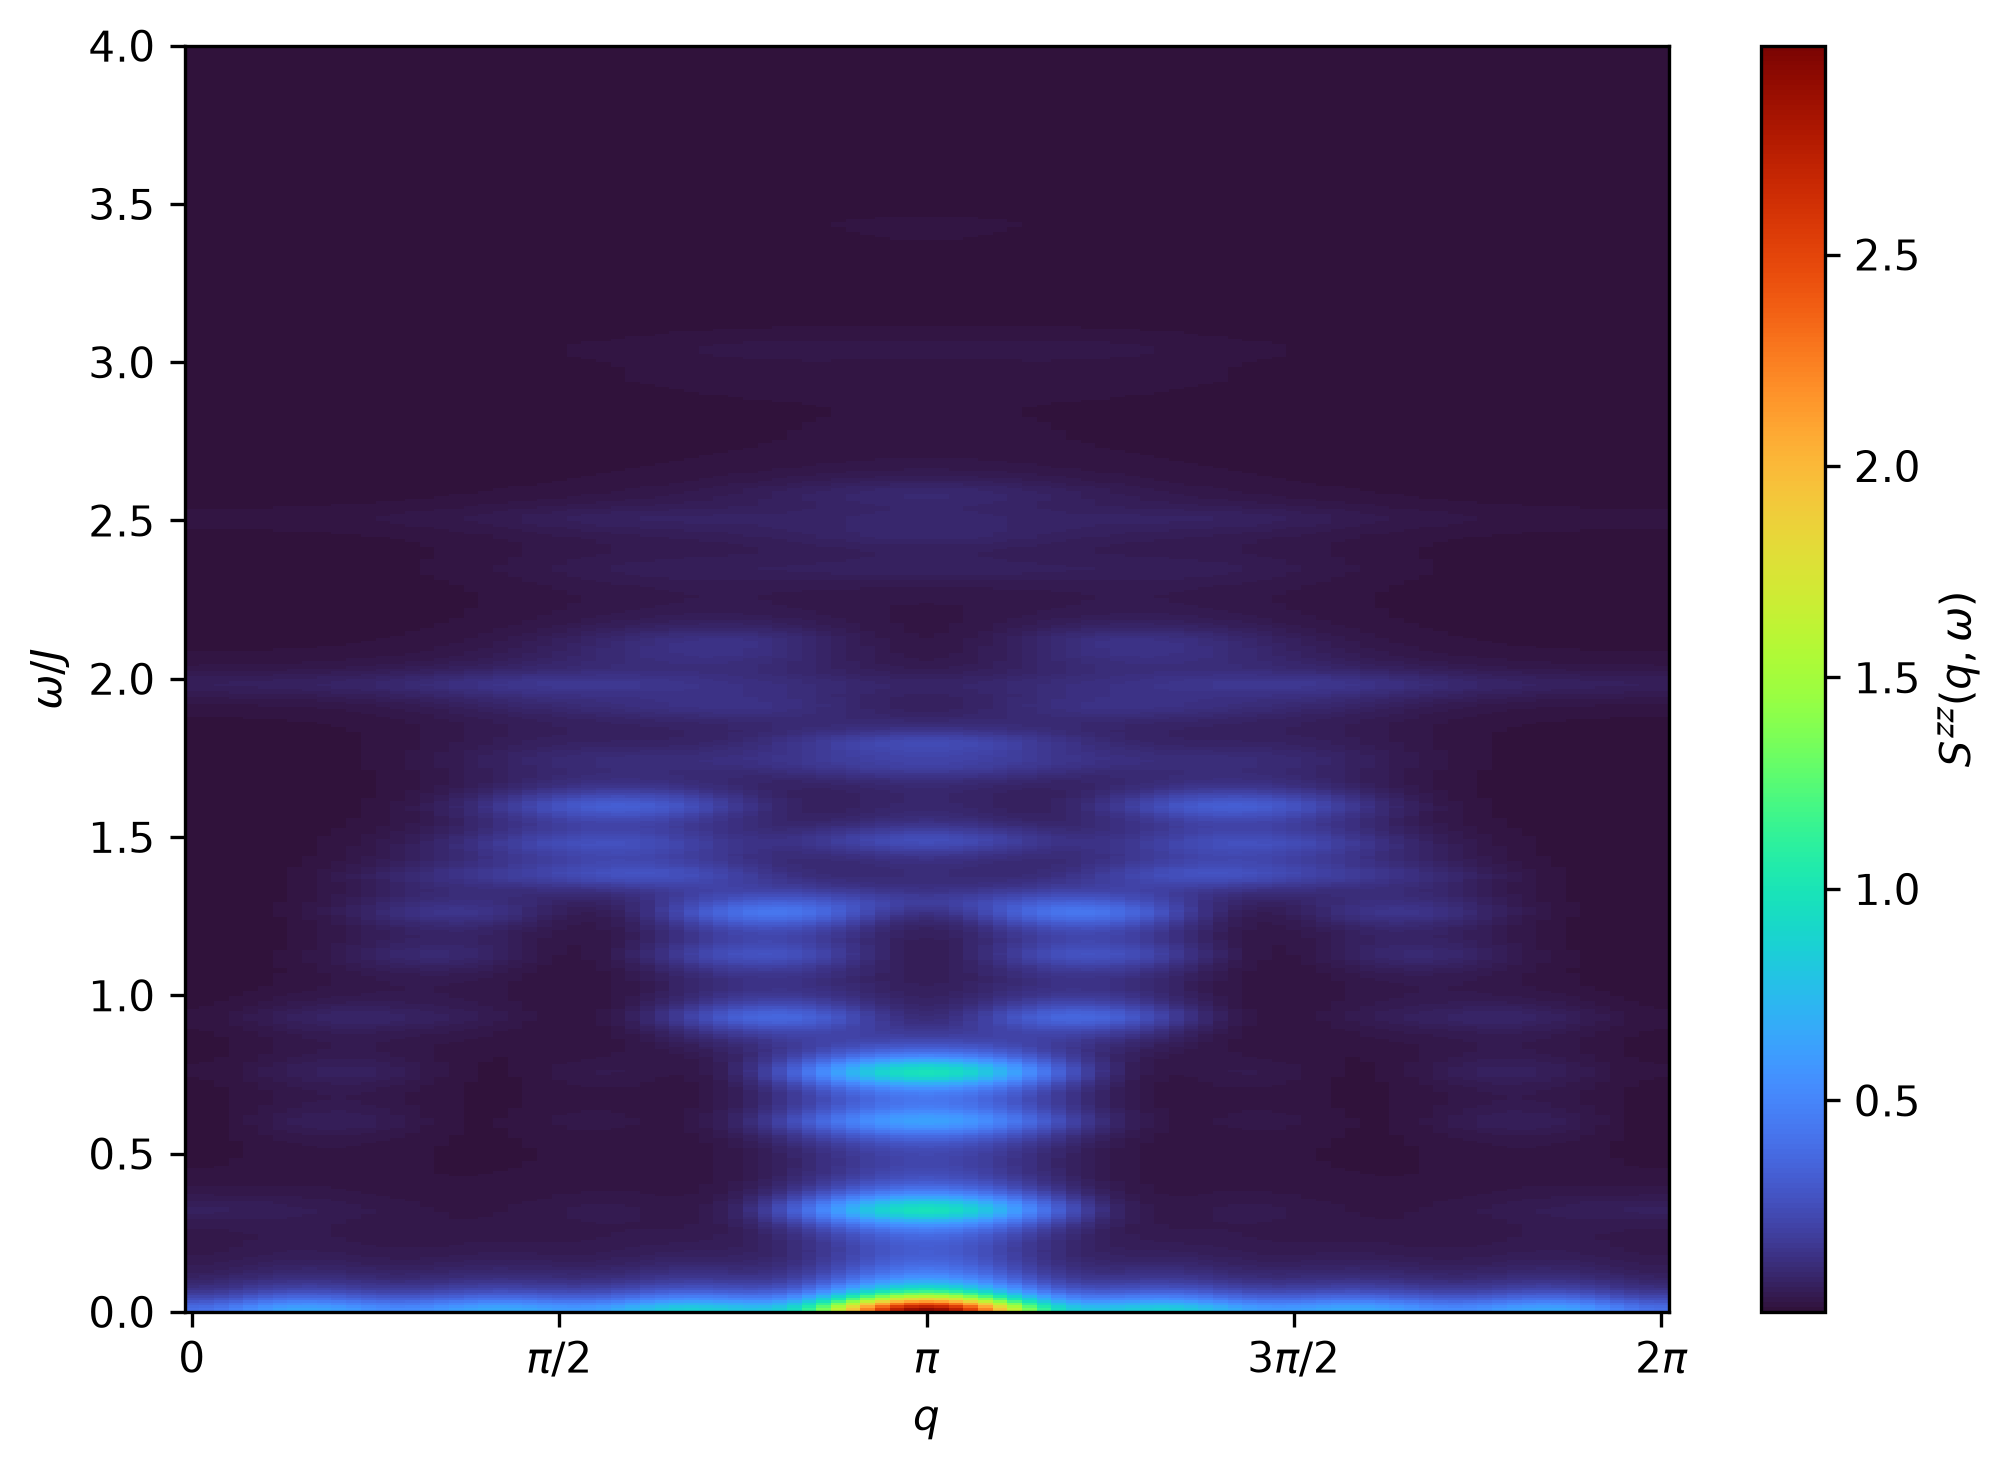
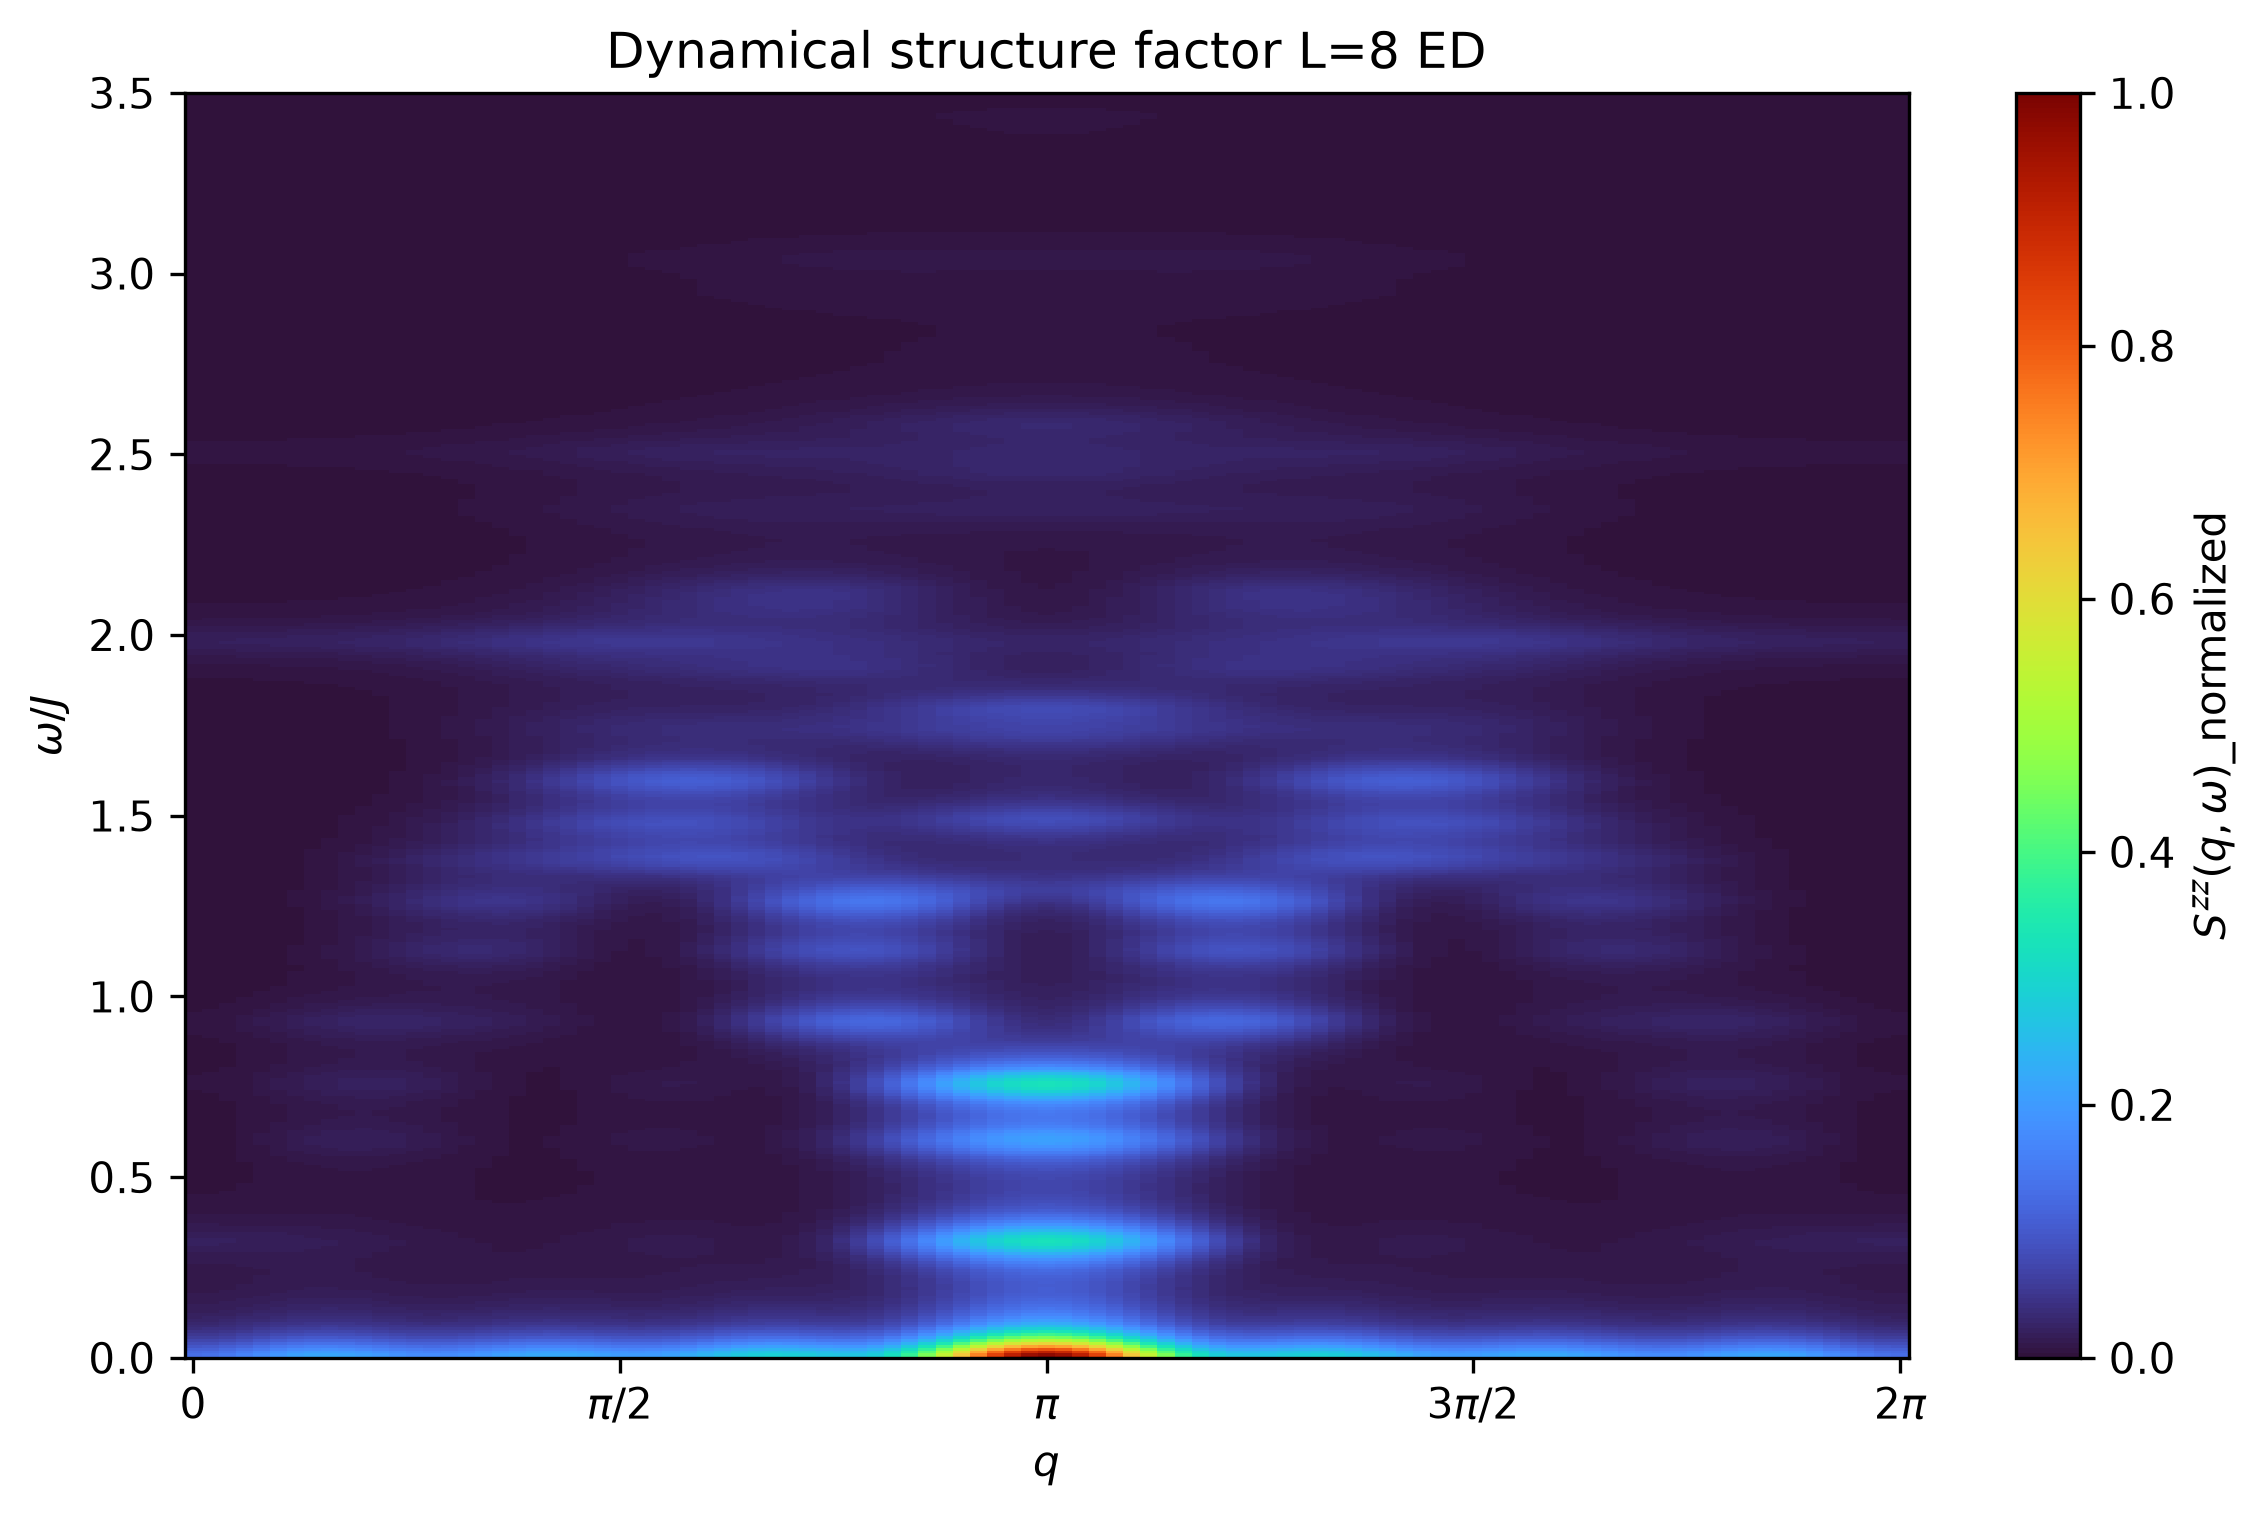
fix graph

Changed region(s): [[0.0308, 0.0, 0.9866, 0.9483], [0.0, 0.4283, 0.0308, 0.4895]]

diff --git a/sqw_ed.py b/sqw_ed.py
@@ -88,19 +88,22 @@ plt.xticks(
     [0, np.pi/2, np.pi, 3*np.pi/2, 2*np.pi],
     [r"$0$", r"$\pi/2$", r"$\pi$", r"$3\pi/2$", r"$2\pi$"]
 )
-plt.savefig("sq_ed.png", dpi=300, bbox_inches="tight")
+plt.tight_layout()
+plt.savefig("sq_ed_L8.png", dpi=300, bbox_inches="tight")
 plt.show()
 
-plt.figure(figsize=(7, 5))
-plt.pcolormesh(q_values, omega,S_qw.T, cmap="turbo",shading="auto")
+plt.figure(figsize=(8, 5))
+plt.pcolormesh(q_values, omega, S_qw.T/np.max(S_qw), cmap="turbo",shading="auto")
 plt.xlabel(r"$q$")
 plt.ylabel(r"$\omega/J$")
-plt.colorbar(label=r"$S^{zz}(q,\omega)$")
+cbar = plt.colorbar(label=r"$S^{zz}(q,\omega)$_normalized")
+cbar.set_ticks([0.0, 0.2, 0.4, 0.6, 0.8, 1.0])
 plt.xticks(
     [0, np.pi/2, np.pi, 3*np.pi/2, 2*np.pi],
     [r"$0$", r"$\pi/2$", r"$\pi$", r"$3\pi/2$", r"$2\pi$"]
 )
+plt.ylim(0, 3.5)
 plt.tight_layout()
-plt.ylim(0, 4)
+plt.title("Dynamical structure factor L=8 ED")
 plt.savefig("sqw_ed_L8.png", dpi=300, bbox_inches="tight")
 plt.show()

diff --git a/sqw_tebd.py b/sqw_tebd.py
@@ -143,16 +143,18 @@ plt.show()
 
 
 plt.figure(figsize=(8, 5))
-plt.pcolormesh(q_vals, omega_vals, Sqw.T, cmap="turbo", shading="auto")
+plt.pcolormesh(q_vals, omega_vals, Sqw.T/np.max(Sqw), cmap="turbo", shading="auto")
 plt.xlabel(r"$q$")
 plt.ylabel(r"$\omega/J$")
-plt.colorbar(label=r"$S^{zz}(q,\omega)$")
+cbar = plt.colorbar(label=r"$S^{zz}(q,\omega)$_normalized")
+cbar.set_ticks([0.0, 0.2, 0.4, 0.6, 0.8, 1.0])
 plt.xlim(0, 2*np.pi)
 plt.xticks(
     [0, np.pi / 2, np.pi, 3 * np.pi / 2, 2 * np.pi],
     [r"$0$", r"$\pi/2$", r"$\pi$", r"$3\pi/2$", r"$2\pi$"]
 )
-plt.ylim(0, 4)
+plt.ylim(0, 3.5)
 plt.tight_layout()
+plt.title("Dynamical structure factor L=64 TEBD")
 plt.savefig("sqw_tebd_L64.png", dpi=300, bbox_inches="tight")
 plt.show()
